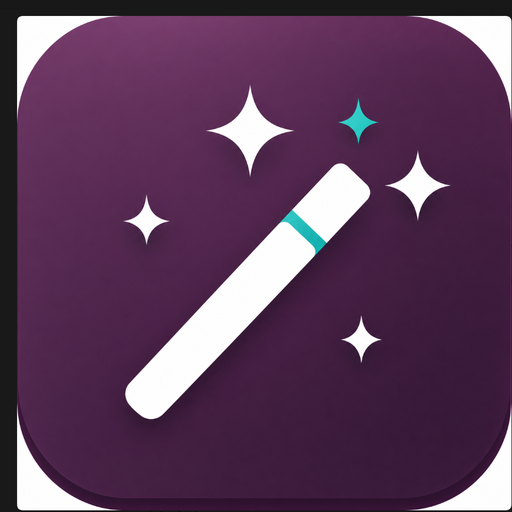
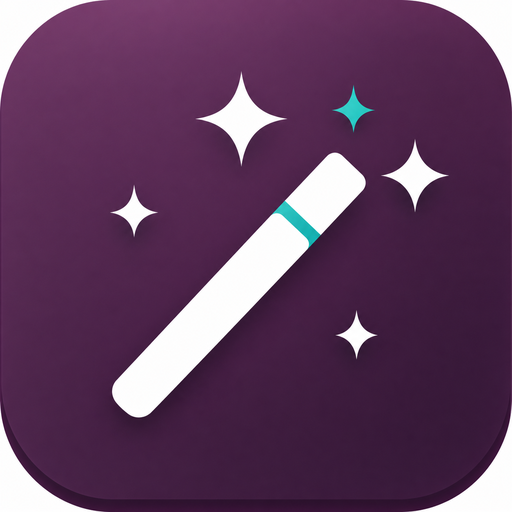
12

diff --git a/mo_studio_builder/__manifest__.py b/mo_studio_builder/__manifest__.py
@@ -13,7 +13,7 @@ interface directly inside Odoo.
     "author": "abdulrahman sammour",
     "website": "https://digitalshopin.com/",
     "license": "OPL-1",
-    "price": 5.00,
+    "price": 99.00,
     "currency": "EUR",
     "depends": ["base", "web", "base_automation"],
     "data": [